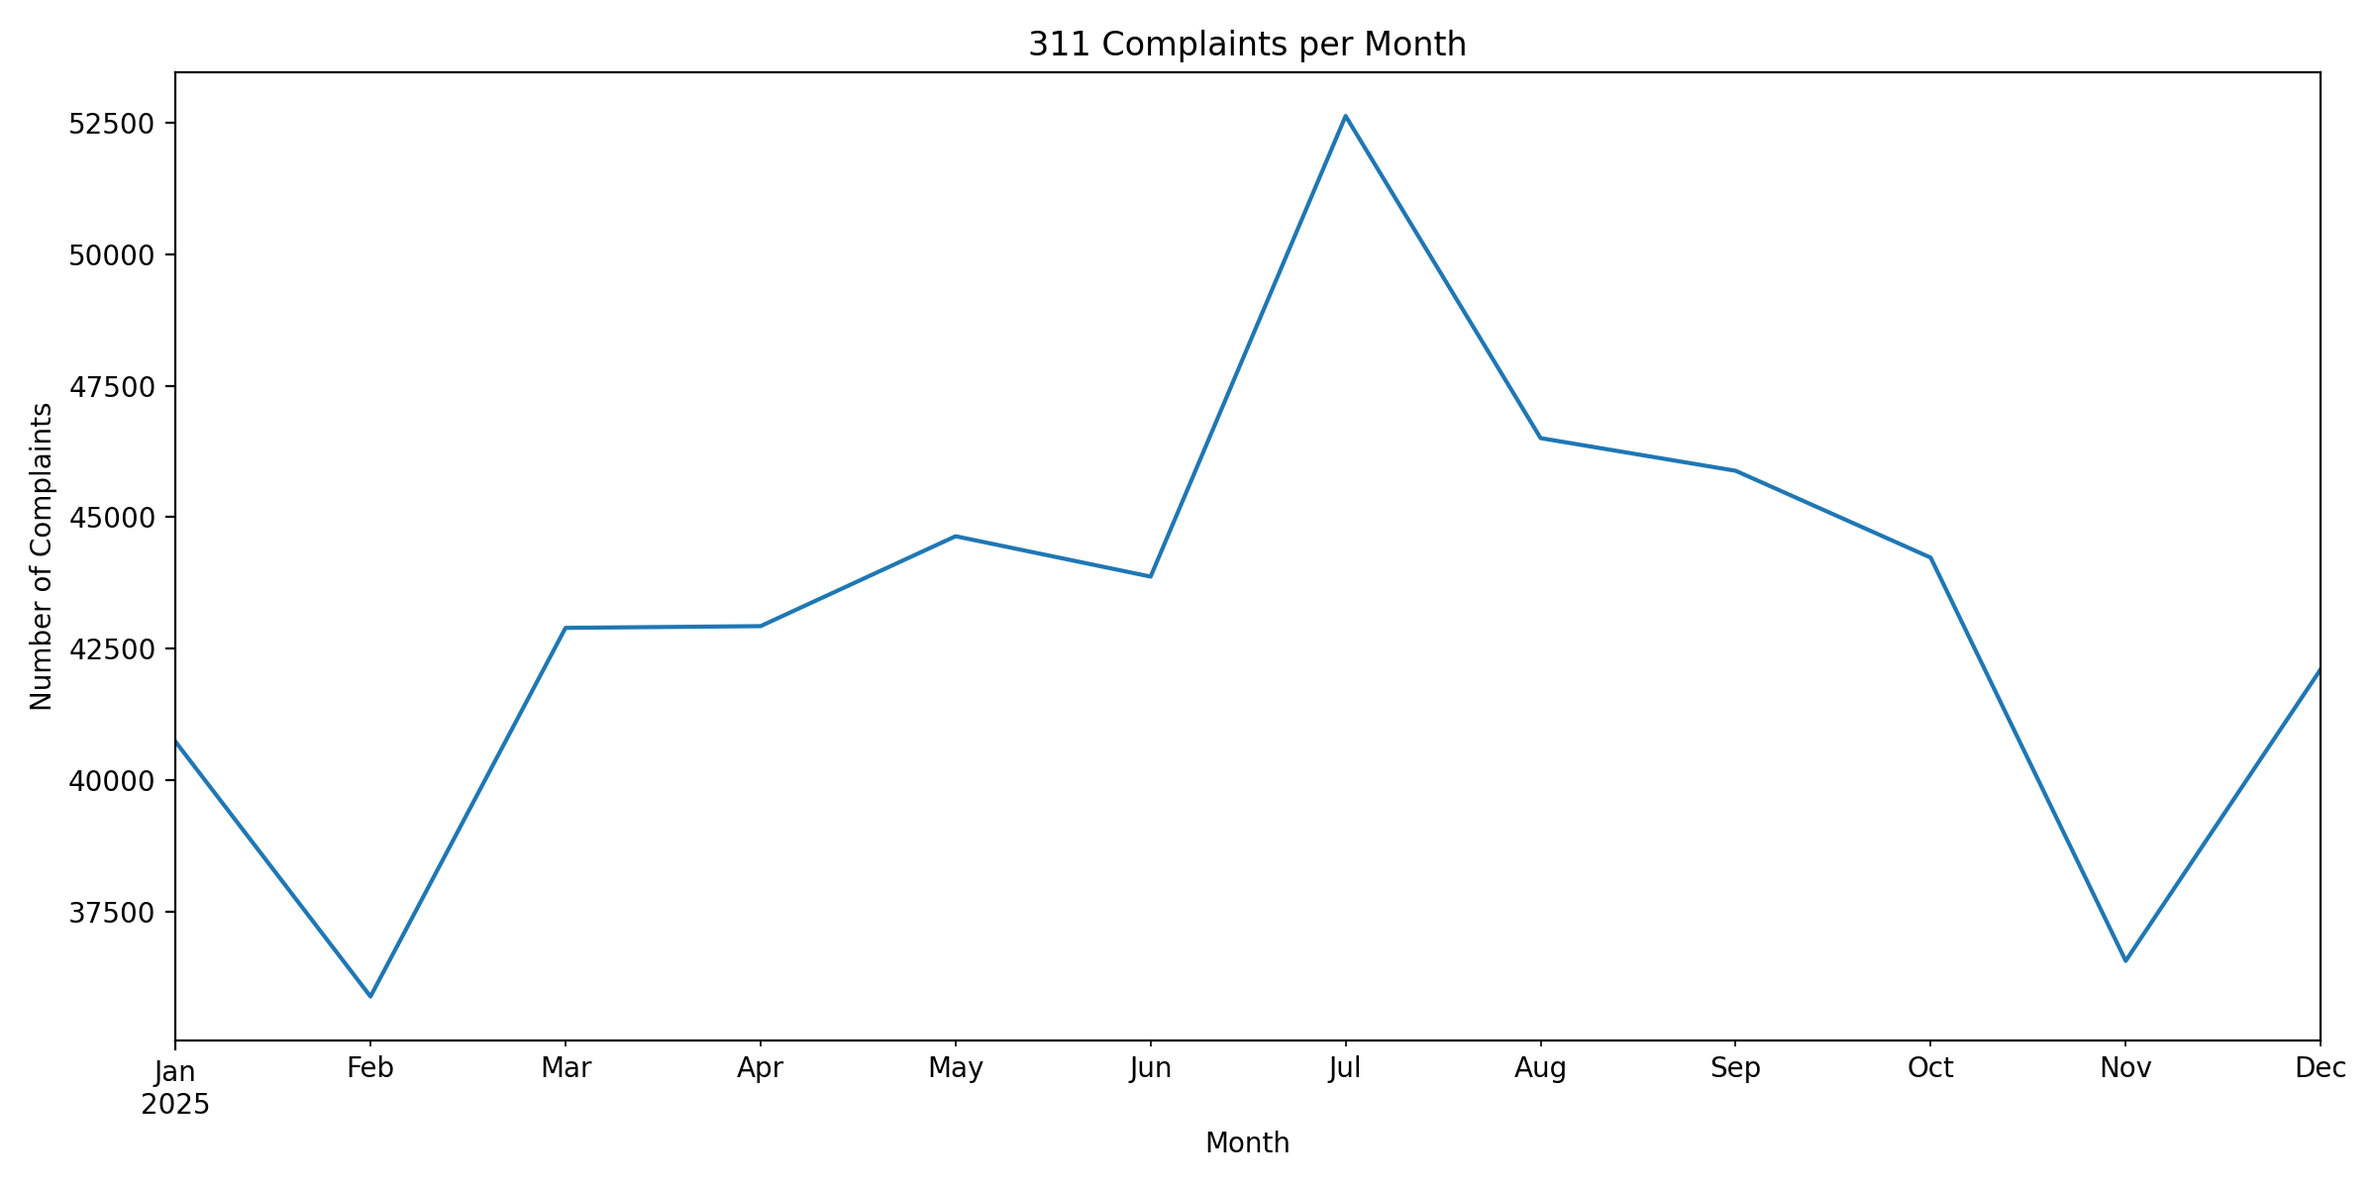
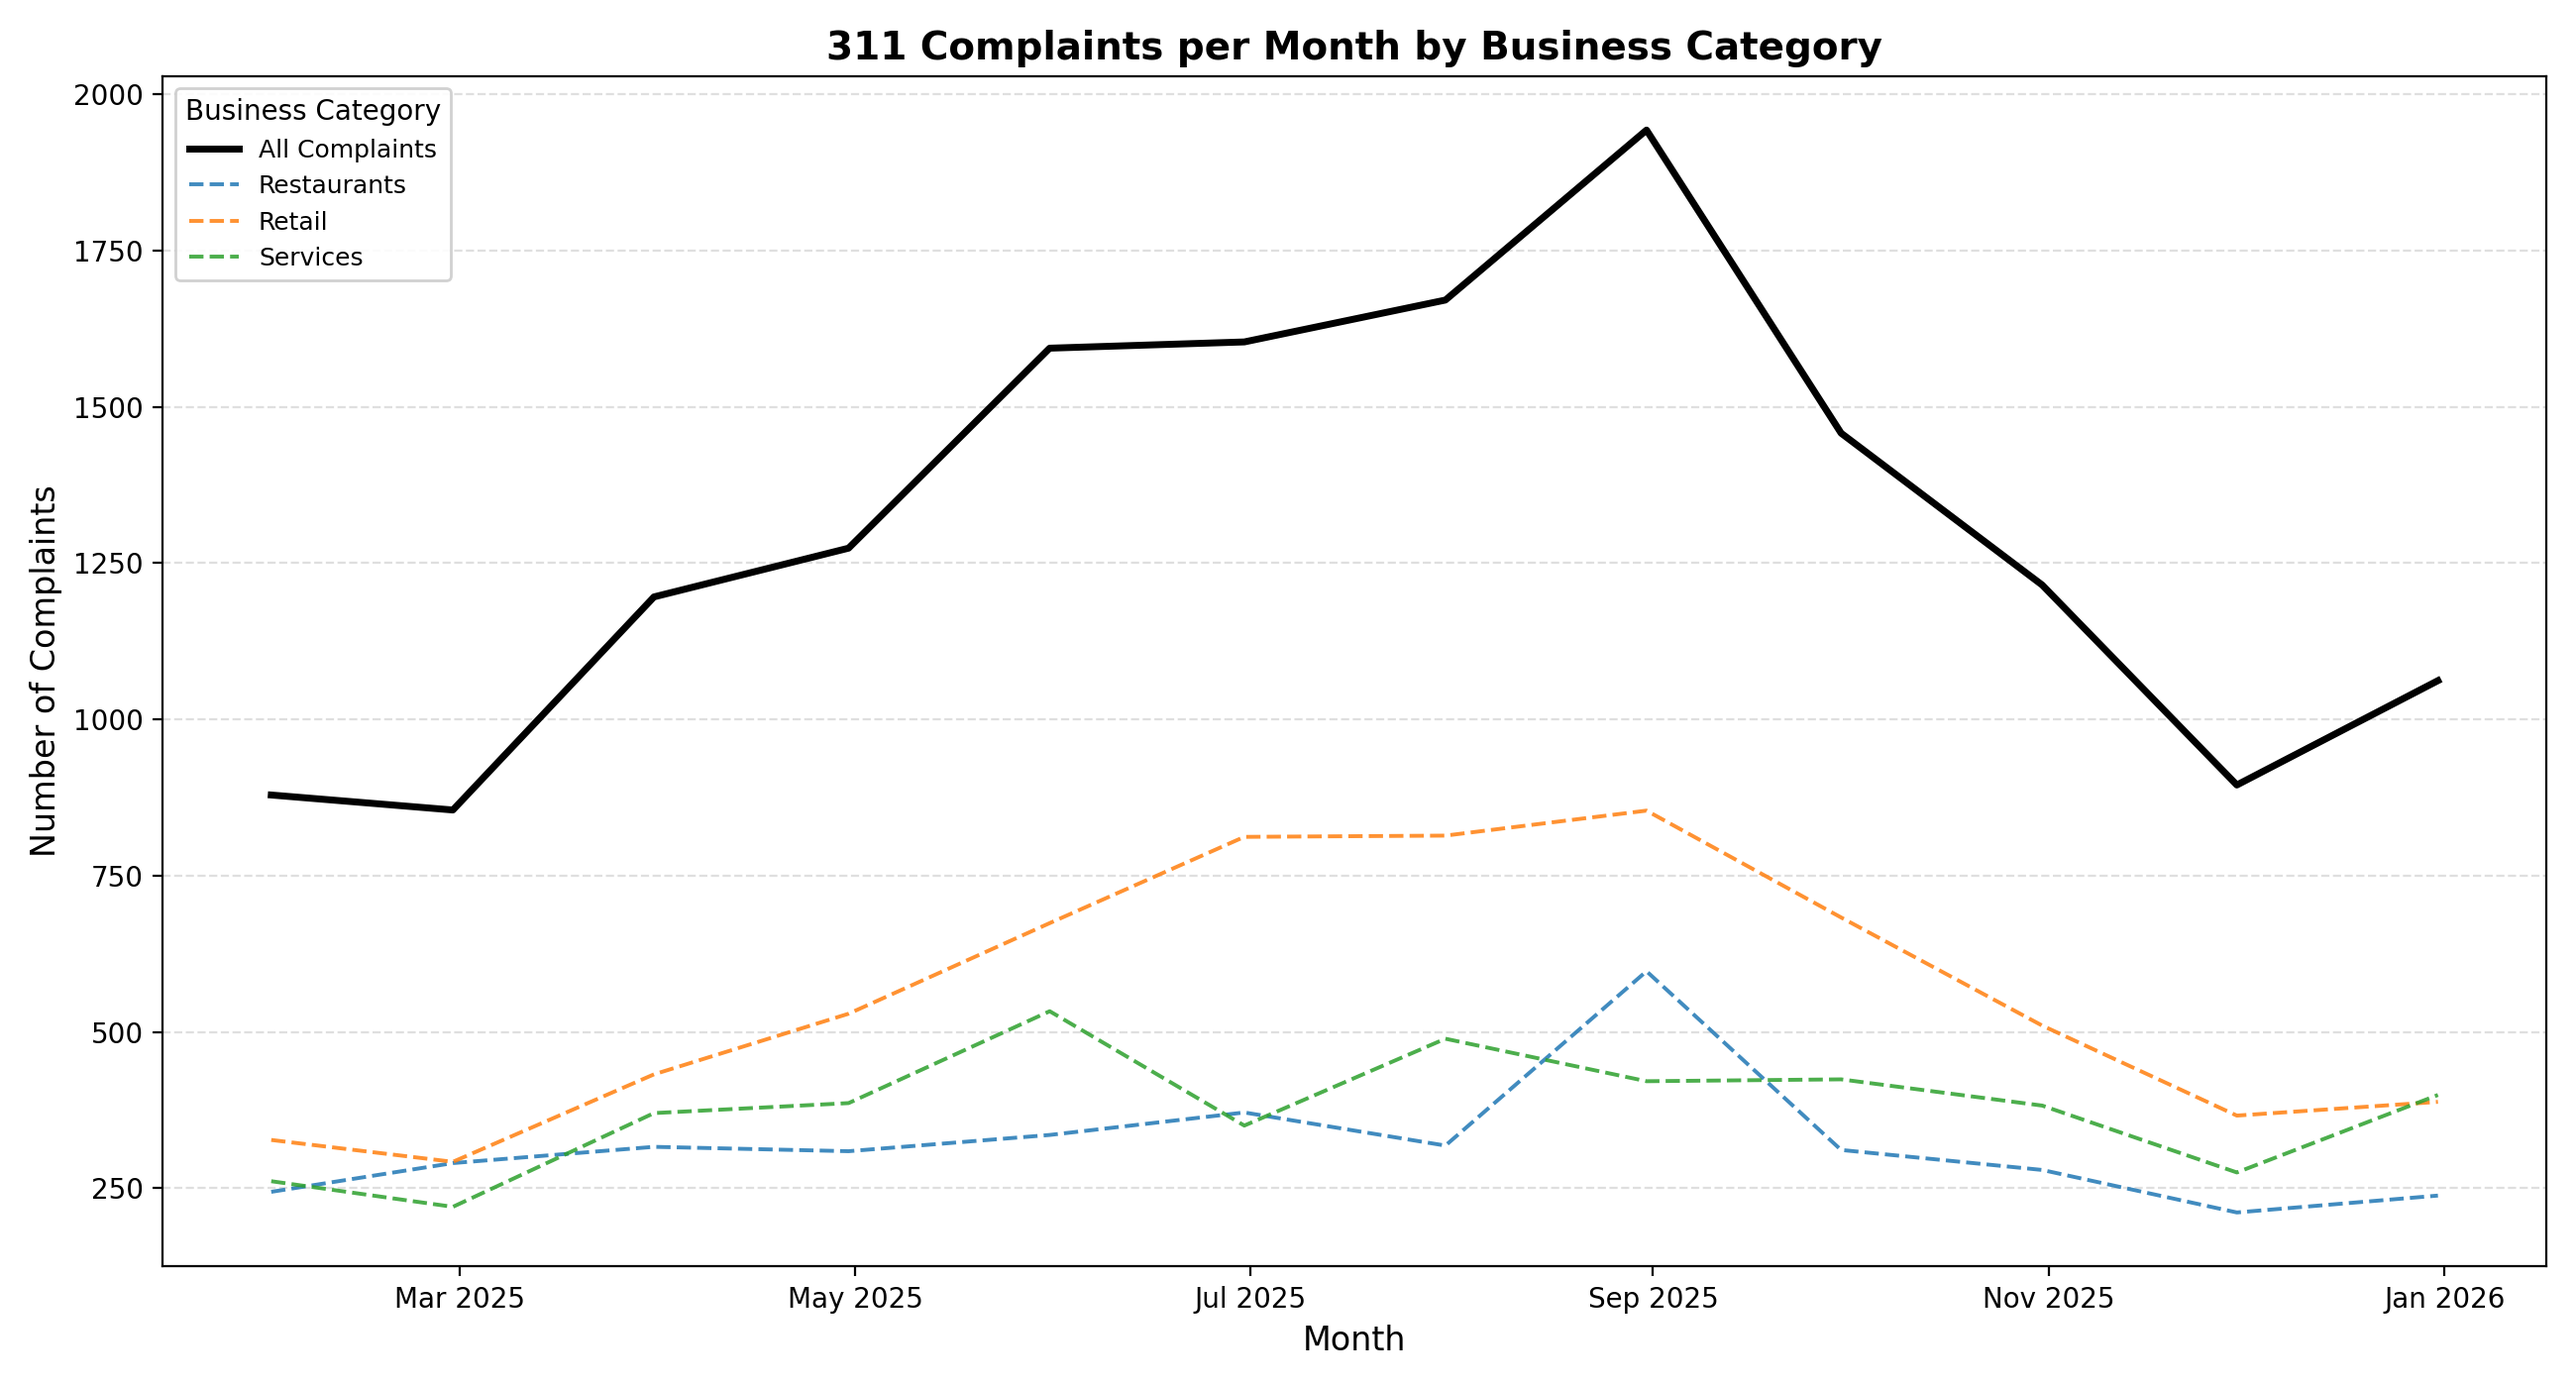
Update complaint by month chart with business category lines and month name formatting

diff --git a/src/graph/complaint_by_month.py b/src/graph/complaint_by_month.py
@@ -2,7 +2,7 @@ import pandas as pd
 import matplotlib.pyplot as plt
 from pathlib import Path
 
-in_path = Path("data/processed/311_cleaned.csv")
+in_path = Path("data/Full/Processed/Phase 3/311_yelp_hybrid_integrated_enriched_matched.csv")
 out_dir = Path("data/graphs")
 out_dir.mkdir(parents=True, exist_ok=True)
 
@@ -10,15 +10,68 @@ df = pd.read_csv(in_path, low_memory=False)
 df["requested_datetime"] = pd.to_datetime(df["requested_datetime"], errors="coerce")
 df = df.dropna(subset=["requested_datetime"])
 
-monthly_counts = df.set_index("requested_datetime").resample("ME").size()
+# ── find the business category column ────────────────────────────────────────
+cat_col_candidates = ["broad_category", "business_category", "broad_category_rule", "category", "categories"]
+cat_col = next((c for c in cat_col_candidates if c in df.columns), None)
 
-plt.figure(figsize=(12, 6))
-monthly_counts.plot()
+if cat_col is None:
+    print(f"WARNING: No business category column found. Available: {list(df.columns)}")
+    print("Falling back to overall complaints only.")
 
-plt.title("311 Complaints per Month")
-plt.xlabel("Month")
-plt.ylabel("Number of Complaints")
+# ── map raw Yelp category strings to broad groups ─────────────────────────────
+if cat_col == "categories":
+    def map_cat(val):
+        val = str(val).lower()
+        if any(k in val for k in ["restaurant", "food", "pizza", "cafe", "bar", "dining"]):
+            return "Restaurants"
+        if any(k in val for k in ["retail", "shop", "store", "market", "clothing", "grocery"]):
+            return "Retail"
+        if any(k in val for k in ["service", "repair", "salon", "spa", "cleaning", "contractor"]):
+            return "Services"
+        if any(k in val for k in ["health", "medical", "doctor", "dental", "pharmacy", "fitness", "gym"]):
+            return "Health"
+        if any(k in val for k in ["auto", "car", "mechanic", "tire"]):
+            return "Auto"
+        return "Other"
+    df["_broad"] = df[cat_col].apply(map_cat)
+    cat_col = "_broad"
 
+# ── overall monthly trend ─────────────────────────────────────────────────────
+monthly_total = df.set_index("requested_datetime").resample("ME").size()
+
+fig, ax = plt.subplots(figsize=(13, 7))
+
+# Plot overall total as a thicker background line
+ax.plot(monthly_total.index, monthly_total.values,
+        color="black", linewidth=2.5, label="All Complaints", zorder=5)
+
+# ── per-category lines ────────────────────────────────────────────────────────
+if cat_col is not None:
+    # Clean up category values
+    df[cat_col] = df[cat_col].astype(str).str.strip().str.title()
+    df[cat_col] = df[cat_col].replace({"Nan": "Other", "None": "Other", "": "Other"})
+
+    categories = ["Restaurants", "Retail", "Services"]
+
+    colors = plt.cm.tab10.colors
+    for i, cat in enumerate(categories):
+        subset = df[df[cat_col] == cat].set_index("requested_datetime")
+        monthly_cat = subset.resample("ME").size()
+        ax.plot(monthly_cat.index, monthly_cat.values,
+                color=colors[i % len(colors)],
+                linewidth=1.4, alpha=0.85,
+                label=cat, linestyle="--")
+
+ax.set_title("311 Complaints per Month by Business Category", fontsize=14, fontweight="bold")
+ax.set_xlabel("Month", fontsize=12)
+ax.set_ylabel("Number of Complaints", fontsize=12)
+ax.legend(title="Business Category", fontsize=9, title_fontsize=10,
+          loc="upper left", framealpha=0.9)
+ax.grid(axis="y", linestyle="--", alpha=0.4)
+
+ax.xaxis.set_major_formatter(plt.matplotlib.dates.DateFormatter("%b %Y"))
 plt.tight_layout()
-plt.savefig(out_dir / "311_complaints_per_month.png", dpi=200)
-plt.show()
+out_path = out_dir / "311_complaints_per_month.png"
+plt.savefig(out_path, dpi=200)
+plt.close()
+print(f"Saved: {out_path}")
